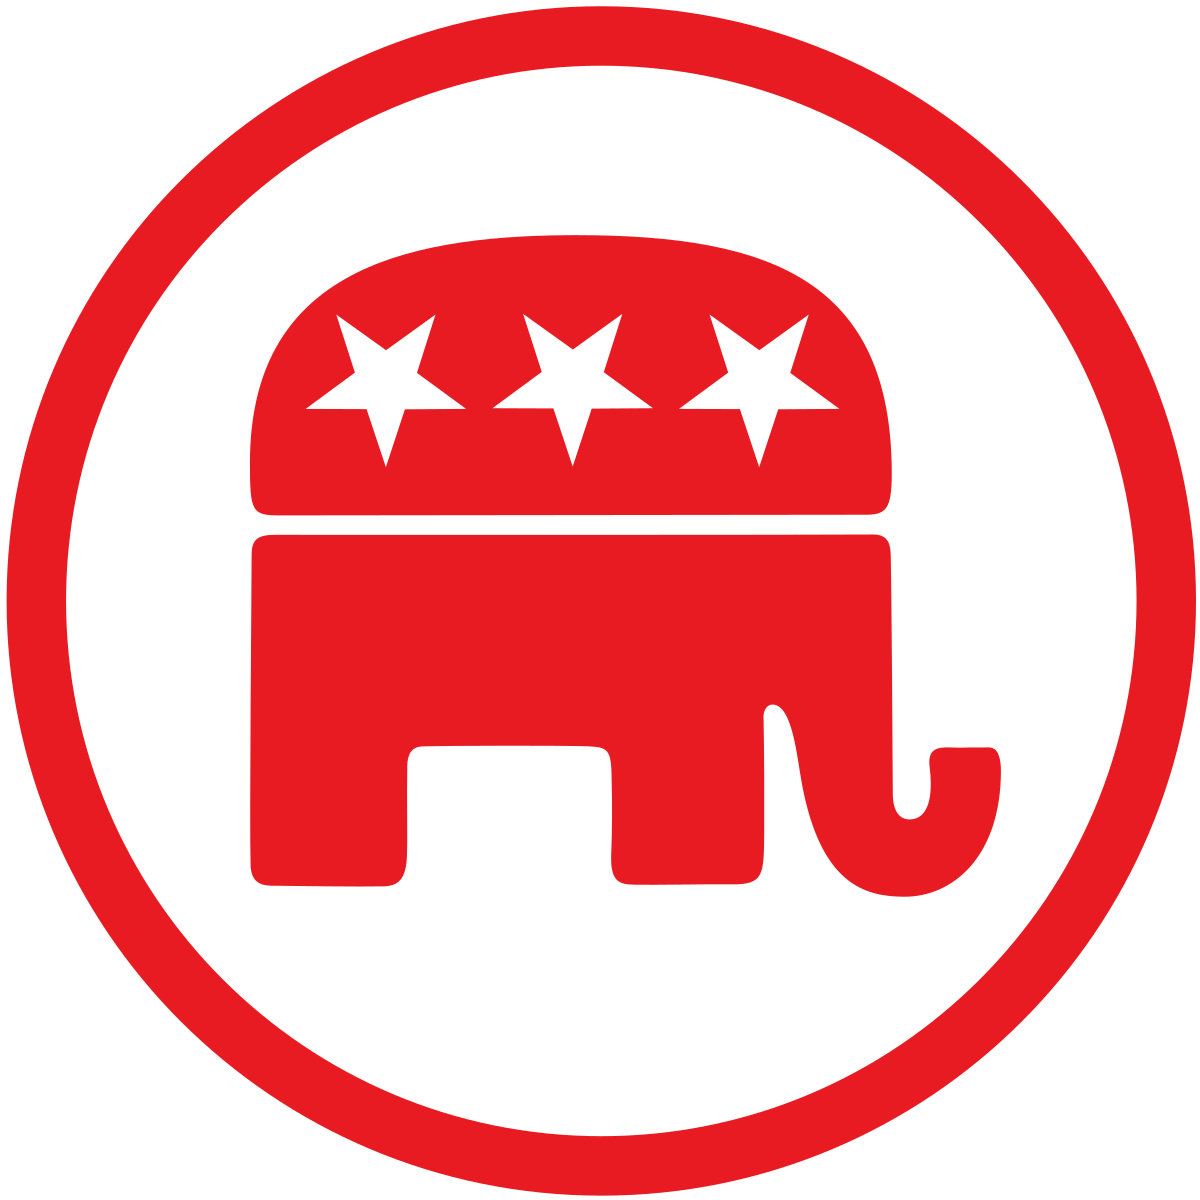
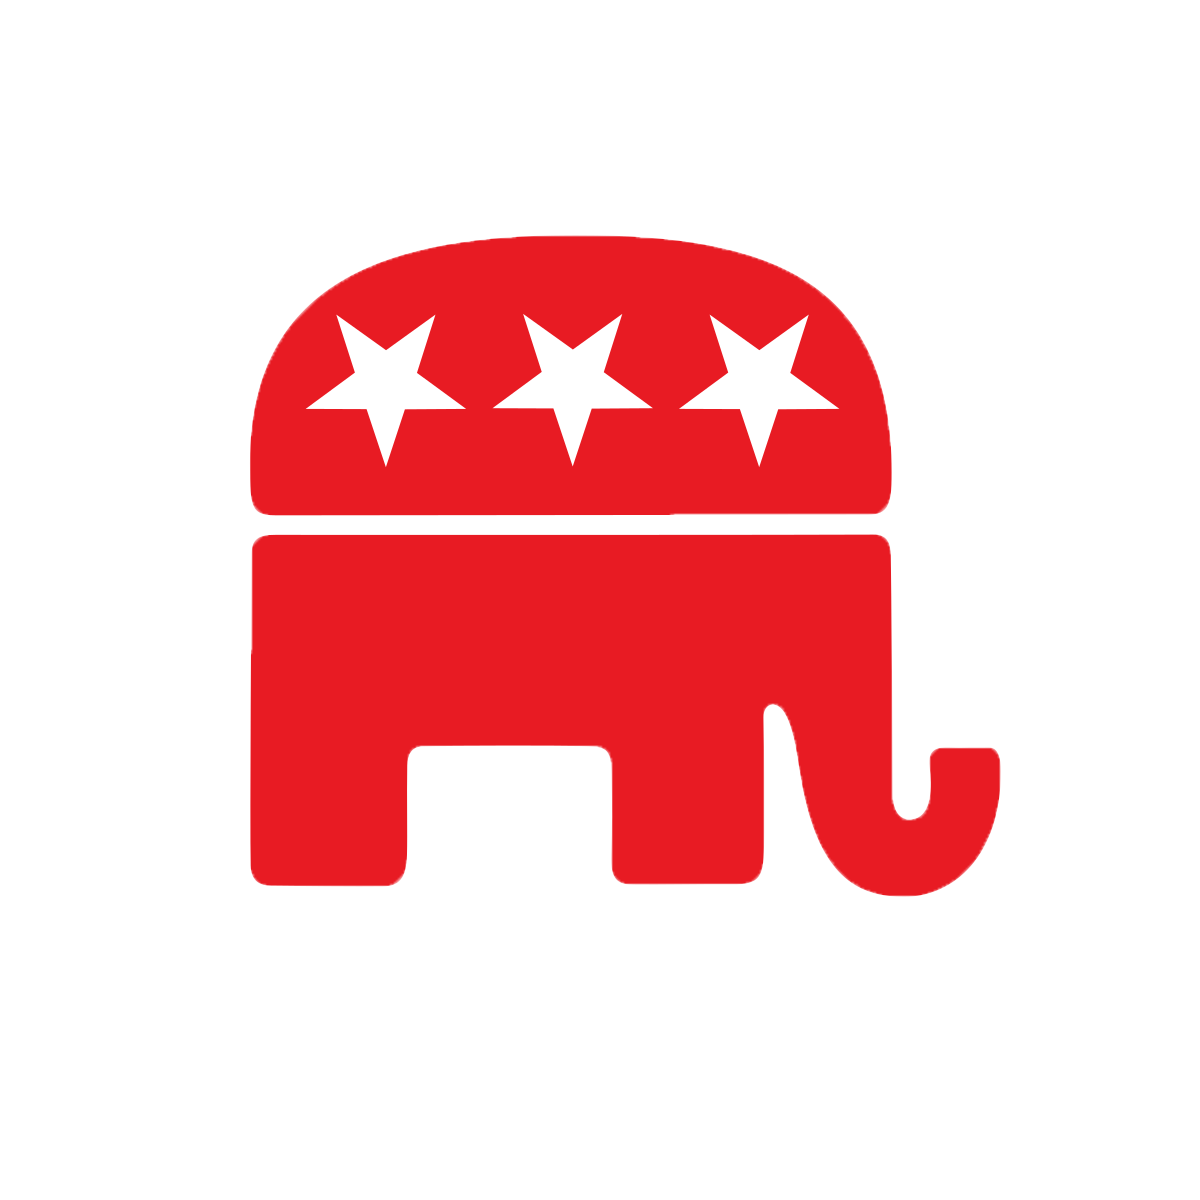
edited republican imag and added img radius

Changed region(s): [[0.0, 0.0, 1.0, 1.0]]

diff --git a/styles/senators.css b/styles/senators.css
@@ -23,6 +23,8 @@
   figure img {
       height: 250px;
       border-top-left-radius: 2rem;
+      border-bottom-right-radius: 2rem;
+      filter: drop-shadow(2px 2px 4px gray);
   } 
 
   /* img {
